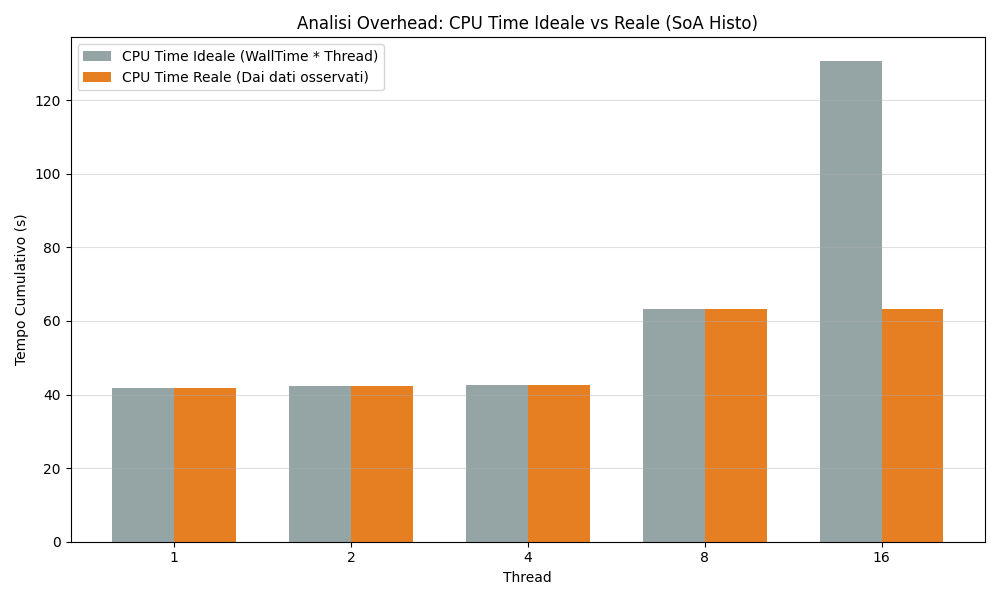
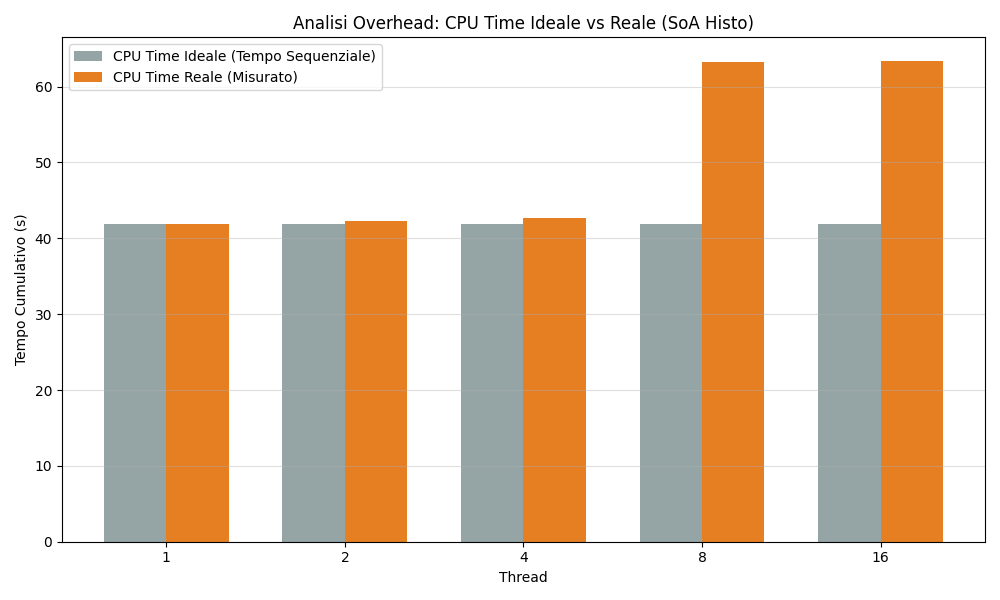
fixed comment

diff --git a/scripts/analisi_dati.py b/scripts/analisi_dati.py
@@ -27,6 +27,7 @@ COLORS = {'AoS Atomic': '#e74c3c', 'AoS Histo': '#c0392b', 'SoA Atomic': '#3498d
 BOIDS_TARGET = 20000
 df_base = df[df['Schedule'] == 'dynamic-64']
 
+# 1. Grafico confronto architetture
 plt.figure(figsize=(10, 6))
 df_comp = df_base[(df_base['Boids'] == BOIDS_TARGET) & (df_base['Threads'] == 8)].copy()
 df_comp = df_comp[df_comp['Impl'].isin(PARALLEL_IMPLS)]
@@ -40,6 +41,7 @@ plt.tight_layout()
 plt.savefig('../results/plots/1_arch_comparison.png')
 plt.close()
 
+# 2. Grafico strong scaling
 plt.figure(figsize=(10, 6))
 df_20k = df_base[df_base['Boids'] == BOIDS_TARGET]
 threads_list = [1, 2, 4, 8, 16]
@@ -62,6 +64,7 @@ plt.tight_layout()
 plt.savefig('../results/plots/2_strong_scaling.png')
 plt.close()
 
+# 3. Grafico speedup ed efficienza
 fig, (ax1, ax2) = plt.subplots(1, 2, figsize=(15, 6))
 
 for impl in PARALLEL_IMPLS:
@@ -90,15 +93,20 @@ plt.tight_layout()
 plt.savefig('../results/plots/3_speedup_efficiency.png')
 plt.close()
 
+# 4. Grafico cpu e wall time
 plt.figure(figsize=(10, 6))
 soa_h_data = df_20k[df_20k['Impl'] == 'SoA Histo'].sort_values('Threads')
 
 width = 0.35
 x = np.arange(len(threads_list))
-ideal_cpu = soa_h_data['WallTime_Avg'].values * soa_h_data['Threads'].values
 
-plt.bar(x - width/2, ideal_cpu, width, label='CPU Time Ideale (WallTime * Thread)', color='#95a5a6')
-plt.bar(x + width/2, soa_h_data['CPUTime_Avg'], width, label='CPU Time Reale (Dai dati osservati)', color='#e67e22')
+cpu_sequenziale = soa_h_data[soa_h_data['Threads'] == 1]['CPUTime_Avg'].values[0]
+ideal_cpu = np.full(len(threads_list), cpu_sequenziale)
+
+real_cpu = soa_h_data['CPUTime_Avg'].values
+
+plt.bar(x - width/2, ideal_cpu, width, label='CPU Time Ideale (Tempo Sequenziale)', color='#95a5a6')
+plt.bar(x + width/2, real_cpu, width, label='CPU Time Reale (Misurato)', color='#e67e22')
 
 plt.ylabel('Tempo Cumulativo (s)')
 plt.xlabel('Thread')
@@ -110,6 +118,7 @@ plt.tight_layout()
 plt.savefig('../results/plots/4_cpu_vs_wall_time.png')
 plt.close()
 
+# 5. Grafico time vs boids
 plt.figure(figsize=(10, 6))
 df_8t = df_base[df_base['Threads'] == 8]
 boids_list = [1000, 5000, 10000, 20000]
@@ -128,6 +137,7 @@ plt.tight_layout()
 plt.savefig('../results/plots/5_time_vs_boids.png')
 plt.close()
 
+# 6. Grafico scheduling
 schedules = ['static', 'dynamic-16', 'dynamic-32', 'dynamic-64', 'dynamic-128', 'guided']
 df_sched = df_sched_raw[(df_sched_raw['Boids'] == BOIDS_TARGET) & (df_sched_raw['Threads'] == 8) & (df_sched_raw['Impl'] == 'SoA Histo')].copy()
 df_sched = df_sched[df_sched['Schedule'].isin(schedules)]
@@ -153,6 +163,7 @@ plt.tight_layout()
 plt.savefig('../results/plots/6_scheduling_impact.png')
 plt.close()
 
+# 7. Grafico ottimizzazioni
 t_o3_row = df_20k[(df_20k['Impl'] == 'SoA Histo') & (df_20k['Threads'] == 8)].iloc[0]
 t_o3 = t_o3_row['WallTime_Avg']
 t_o3_std = t_o3_row['WallTime_StdDev']
@@ -170,6 +181,7 @@ plt.tight_layout()
 plt.savefig('../results/plots/7_compiler_impact.png')
 plt.close()
 
+# 8. Grafico weak scaling
 plt.figure(figsize=(10, 6))
 
 threads = df_weak['Threads']

diff --git a/src/boids_core.c b/src/boids_core.c
@@ -121,6 +121,8 @@ void update_indices(const BoidSystem* boids, int num_boids, SimulationContext* c
 
     #pragma omp parallel
     {
+        // Parallela con atomic
+
         int c, i;
         // Reset
         #pragma omp for
@@ -163,6 +165,8 @@ void update_indices(const BoidSystem* boids, int num_boids, SimulationContext* c
         #else
     #pragma omp parallel
     {
+        // Parallela con istrogrammi
+
         const int tid = omp_get_thread_num();
         int* my_hist = ctx->local_histograms[tid];
         int* my_offs = ctx->local_offsets[tid];
@@ -226,7 +230,8 @@ void update_indices(const BoidSystem* boids, int num_boids, SimulationContext* c
     }
         #endif
     #else
-        // SEQUENZIALE
+        // Sequenziale
+
         memset(ctx->counting_cell, 0, total_cells * sizeof(int));
         // Conteggio boids per ogni cella
         for (int i = 0; i < num_boids; i++) ctx->counting_cell[get_cell_index(B_X(boids, i), B_Y(boids, i), cols, rows)]++;

diff --git a/src/main.c b/src/main.c
@@ -117,8 +117,7 @@ void run_benchmark(Config* cfg) {
     Stats c_s = compute_stats(cpu_results, cfg->num_runs);
     double efficiency = (c_s.mean / (w_s.mean * cfg->threads)) * 100.0;
     double steps_per_sec = cfg->steps / w_s.mean;
-
-    // Apertura file in APPEND
+    
     FILE *check = fopen(cfg->output_file, "r");
     bool write_header = (check == NULL);
     if (check) fclose(check);

diff --git a/scripts/run_schedule_benchmarks.py b/scripts/run_schedule_benchmarks.py
@@ -7,7 +7,6 @@ BUILD_DIR = "../cmake-build-release"
 BASE_TARGET_NAME = "boids_par_soa_histo"
 OUT_CSV = "../results/dumps/scheduling_comparison.csv"
 
-# Aggiunge .exe se siamo su Windows
 ext = ".exe" if platform.system() == "Windows" else ""
 TARGET_NAME = f"{BASE_TARGET_NAME}{ext}"
 

diff --git a/scripts/run_optimization_benchmakrs.py b/scripts/run_optimization_benchmakrs.py
@@ -7,7 +7,6 @@ BUILD_DIR = "../cmake-build-release"
 BASE_TARGET_NAME = "boids_O0"
 OUT_CSV = "../results/dumps/baseline_results.csv"
 
-# Aggiunge .exe se siamo su Windows
 ext = ".exe" if platform.system() == "Windows" else ""
 TARGET_NAME = f"{BASE_TARGET_NAME}{ext}"
 

diff --git a/scripts/run_gui.py b/scripts/run_gui.py
@@ -7,7 +7,6 @@ BUILD_DIR = "../cmake-build-release"
 
 BASE_TARGET_NAME = "boids_par_soa_histo"
 
-# Aggiunge .exe se siamo su Windows
 ext = ".exe" if platform.system() == "Windows" else ""
 TARGET_NAME = f"{BASE_TARGET_NAME}{ext}"
 

diff --git a/scripts/run_all_implementations_benchmarks.py b/scripts/run_all_implementations_benchmarks.py
@@ -12,7 +12,6 @@ BASE_TARGETS = [
     "boids_par_aos_atomic", "boids_par_soa_atomic"
 ]
 
-# Aggiugne .exe se siamo su Windows
 ext = ".exe" if platform.system() == "Windows" else ""
 TARGETS = [f"{t}{ext}" for t in BASE_TARGETS]
 

diff --git a/scripts/run_weak_scaling_benchmarks.py b/scripts/run_weak_scaling_benchmarks.py
@@ -10,7 +10,6 @@ BASE_TARGETS = [
     "boids_par_soa_histo",
 ]
 
-# Aggiugne .exe se siamo su Windows
 ext = ".exe" if platform.system() == "Windows" else ""
 TARGETS = [f"{t}{ext}" for t in BASE_TARGETS]
 
